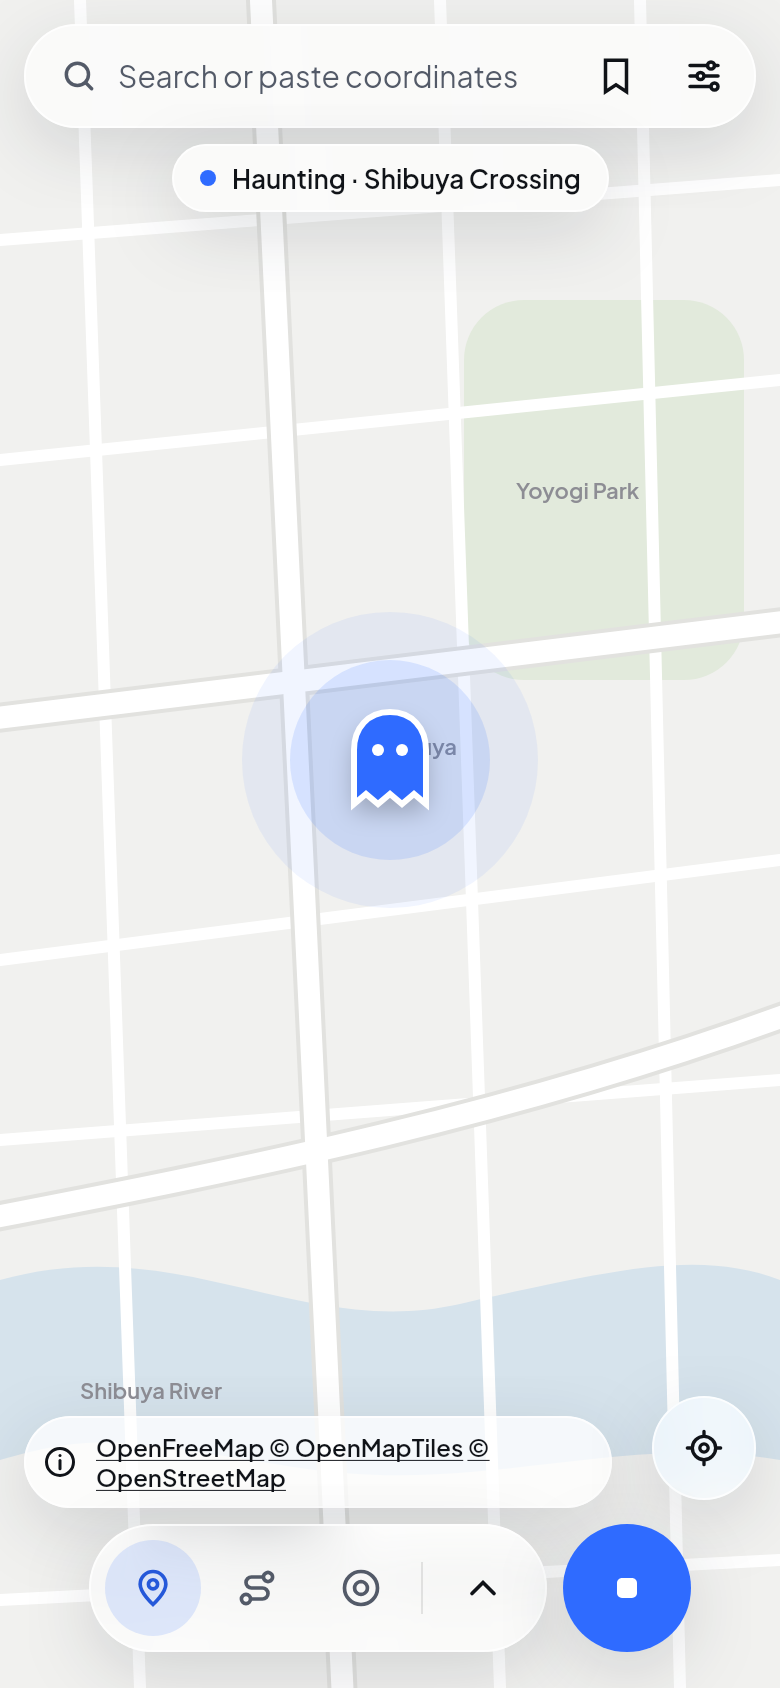
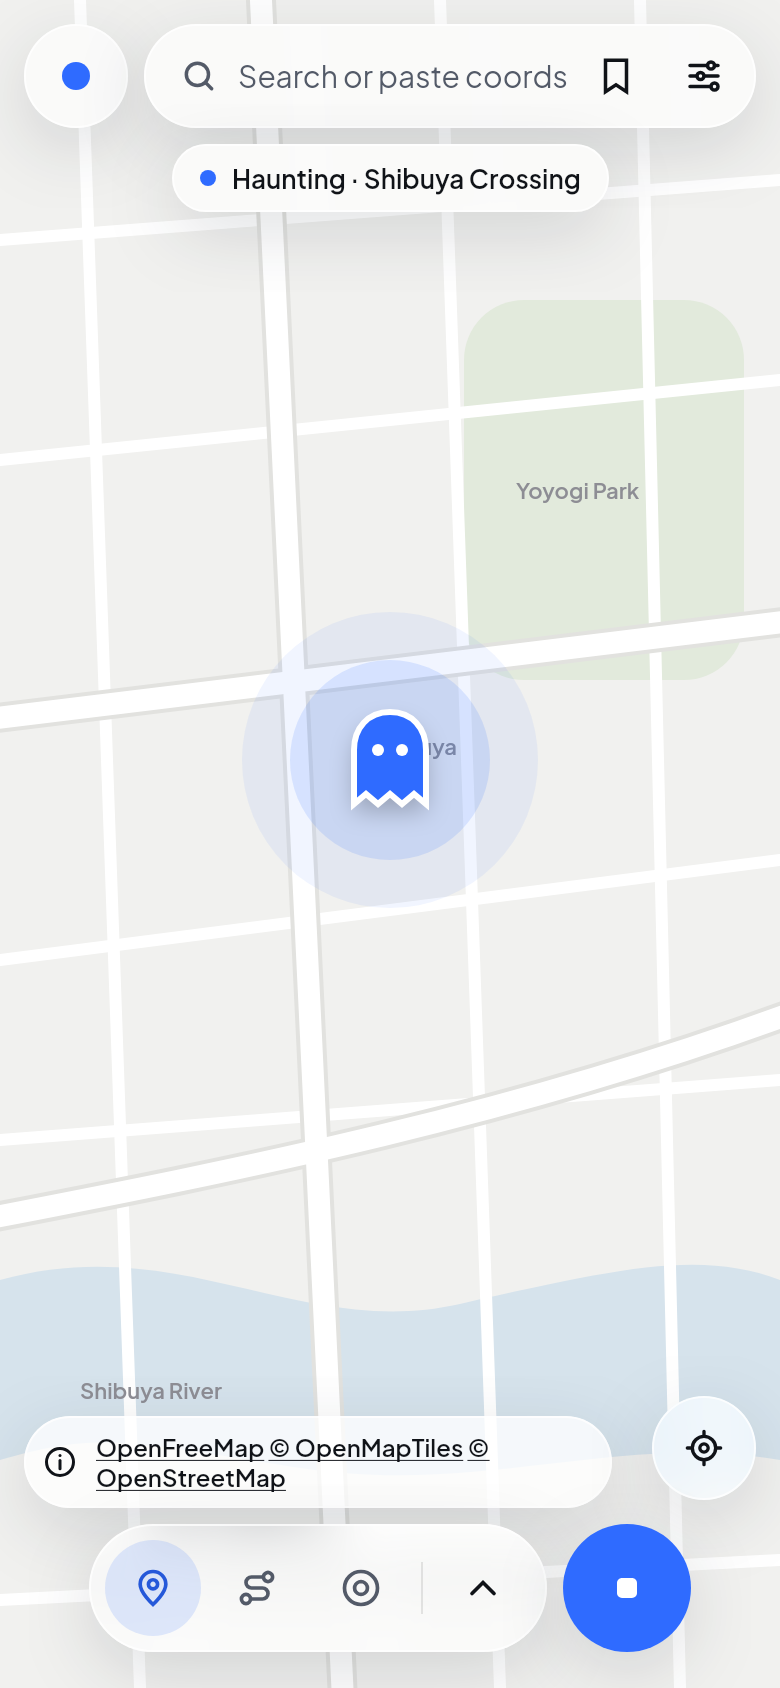
Map: glass status dot beside the search pill; shorter search placeholder

Changed region(s): [[0.3077, 0.0308, 0.7077, 0.0616], [0.1231, 0.0308, 0.2769, 0.0924], [0.0615, 0.0308, 0.1231, 0.0616]]

diff --git a/shared/ui/src/commonMain/kotlin/io/github/crockalet/haunt/ui/screens/MapScreen.kt b/shared/ui/src/commonMain/kotlin/io/github/crockalet/haunt/ui/screens/MapScreen.kt
@@ -3,6 +3,7 @@ package io.github.crockalet.haunt.ui.screens
 import androidx.compose.animation.AnimatedContent
 import androidx.compose.animation.AnimatedVisibility
 import androidx.compose.animation.SizeTransform
+import androidx.compose.animation.animateColorAsState
 import androidx.compose.animation.core.LinearEasing
 import androidx.compose.animation.core.animateFloat
 import androidx.compose.animation.core.infiniteRepeatable
@@ -26,6 +27,7 @@ import androidx.compose.foundation.layout.height
 import androidx.compose.foundation.layout.offset
 import androidx.compose.foundation.layout.padding
 import androidx.compose.foundation.layout.safeDrawing
+import androidx.compose.foundation.layout.size
 import androidx.compose.foundation.layout.width
 import androidx.compose.foundation.layout.windowInsetsPadding
 import androidx.compose.foundation.text.BasicText
@@ -57,6 +59,7 @@ import io.github.crockalet.haunt.ui.components.Chip
 import io.github.crockalet.haunt.ui.components.DetailsCard
 import io.github.crockalet.haunt.ui.components.Dot
 import io.github.crockalet.haunt.ui.components.GlassIconButton
+import io.github.crockalet.haunt.ui.components.GlassSurface
 import io.github.crockalet.haunt.ui.components.GlassToolbar
 import io.github.crockalet.haunt.ui.components.IconButton
 import io.github.crockalet.haunt.ui.components.JoystickGrip
@@ -143,14 +146,17 @@ fun MapScreen(
             verticalArrangement = Arrangement.spacedBy(8.dp),
             horizontalAlignment = Alignment.CenterHorizontally,
         ) {
-            SearchPill(
-                placeholder = state.searchPlaceholder,
-                leadingIcon = if (state.mode == MapMode.Route) HauntIcons.Plus else HauntIcons.Search,
-                onClick = actions.onSearch,
-                onLibrary = actions.onLibrary,
-                onSettings = actions.onSettings,
-                modifier = Modifier.morph(MorphKeys.Search),
-            )
+            Row(horizontalArrangement = Arrangement.spacedBy(8.dp), verticalAlignment = Alignment.CenterVertically) {
+                StatusDot(state.active)
+                SearchPill(
+                    placeholder = state.searchPlaceholder,
+                    leadingIcon = if (state.mode == MapMode.Route) HauntIcons.Plus else HauntIcons.Search,
+                    onClick = actions.onSearch,
+                    onLibrary = actions.onLibrary,
+                    onSettings = actions.onSettings,
+                    modifier = Modifier.weight(1f).morph(MorphKeys.Search),
+                )
+            }
             // Glass is a live blur of the map: fade or move it, never scale it (a scaled blur is
             // re-captured and re-blurred at every frame of the animation).
             AnimatedVisibility(
@@ -247,6 +253,20 @@ private fun StartStop(state: MapUiState, actions: MapActions) {
         StartButton(onClick = actions.onStart, enabled = start != null, contentDescription = start ?: "Start haunting")
     } else {
         StopButton(onClick = actions.onStop, contentDescription = stopLabel)
+    }
+}
+
+/** Glass disc beside the search pill: accent while faking, red while the real location shows. */
+@Composable
+private fun StatusDot(active: Boolean) {
+    val c = HauntTheme.colors
+    val color by animateColorAsState(if (active) c.accent else c.danger, HauntMotion.snappy())
+    val description = if (active) "Faking location" else "Not faking location"
+    GlassSurface(
+        Modifier.size(52.dp).semantics { contentDescription = description },
+        contentAlignment = Alignment.Center,
+    ) {
+        Dot(color, size = 14.dp)
     }
 }
 

diff --git a/shared/ui/src/commonMain/kotlin/io/github/crockalet/haunt/ui/state/MapUiState.kt b/shared/ui/src/commonMain/kotlin/io/github/crockalet/haunt/ui/state/MapUiState.kt
@@ -327,7 +327,7 @@ internal fun buildMapUiState(
         active = active,
         startAction = startAction,
         status = status,
-        searchPlaceholder = if (local.mode == MapMode.Route) "Add a stop" else "Search or paste coordinates",
+        searchPlaceholder = if (local.mode == MapMode.Route) "Add a stop" else "Search or paste coords",
         pin = pin,
         route = route,
         joystick = joystick,

diff --git a/shared/ui/src/commonMain/kotlin/io/github/crockalet/haunt/ui/theme/HauntColors.kt b/shared/ui/src/commonMain/kotlin/io/github/crockalet/haunt/ui/theme/HauntColors.kt
@@ -46,7 +46,7 @@ data class HauntColors(
     val selected: Color,
     val selectedContent: Color,
     val halo: Color,
-    /** Error dot in notices (the only non-accent hue outside the map). */
+    /** Error dot in notices and the map's "not faking" status dot (the only non-accent hue outside the map). */
     val danger: Color = Color(0xFFE5484D),
 )
 

diff --git a/docs/DESIGN.md b/docs/DESIGN.md
@@ -305,7 +305,8 @@ and take their colours from the theme palette.
 
 **Map screen** (single main screen; map takes the full screen, no bottom nav)
 - Top: glass search pill (places + coordinate paste) with Library and Settings buttons, right under the status bar
-  (no app title); a status chip below it.
+  (no app title), with a 52 dp glass status dot on its left: accent while faking, `danger` red while not (it lines
+  up with the search screen's back button through the pill morph); a status chip below it.
 - Bottom, **collapsed by default:** a floating toolbar with **Pin · Route · Joystick**
   (+ pause while a route plays) and an expand arrow, plus a separate round **Start / Stop** button.
 - **Starting and stopping are always explicit.** Switching mode, long-pressing the map, picking a search
